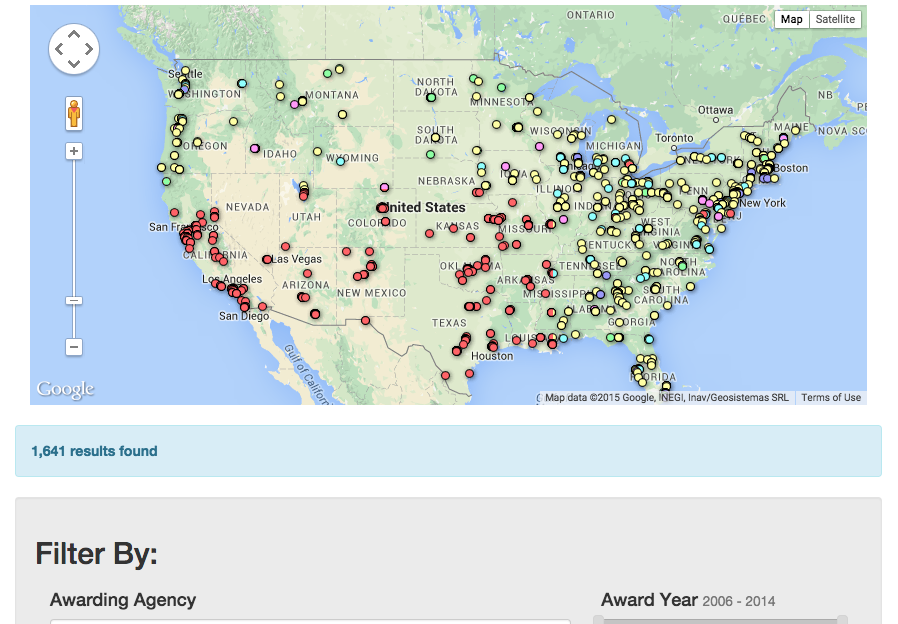
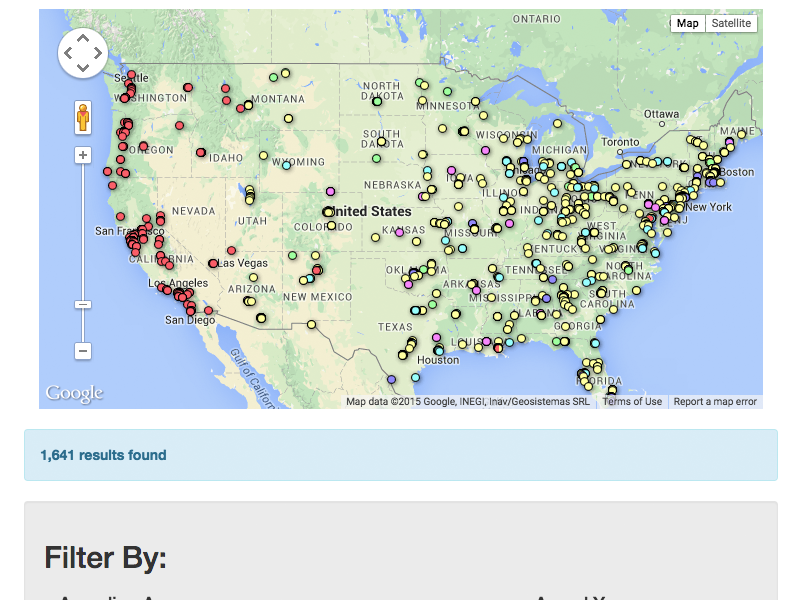
Cleaned up ncji map directory

diff --git a/index.html b/index.html
@@ -12,7 +12,7 @@
   <body>
   <div class="container">
     <div class="row">
-      <div class="col-md-6"><img class="img-responsive title-logo img-circle" src="images/jake-logo.jpg" alt="udacity logo"></div>
+      <div class="col-md-6"><img class="img-responsive title-logo img-circle" src="images/jake-logo.jpg" alt="jake logo"></div>
       <div class="col-md-6 text-right text-uppercase">
         <h1 class="text-thin title-super">Jake Heggelke</h1>
         <h4>FEWD Extraordinaire</h4>
@@ -33,17 +33,17 @@
     </div>
     <div class="row text-center">
       <div class="col-md-4 col-sm-6 col-xs-12">
-        <img class="img-responsive modal-img" src="http://placehold.it/800x600" alt="appify image" data-toggle="modal" data-target="#project1">
-        <h3>Appify</h3>
-        <p><a href="http://github.com">Link to project</a></p>
+        <img class="img-responsive modal-img outline-img" src="images/ncjiMap.png" alt="ncji map image" data-toggle="modal" data-target="#project1">
+        <h3>Filterable Google Map</h3>
+        <p><a href="ncji/index.html">Link to project</a></p>
       </div>
       <div class="col-md-4 col-sm-6 col-xs-12">
-        <img class="img-responsive modal-img" src="http://placehold.it/800x600" alt="sunflower image" data-toggle="modal" data-target="#project2">
+        <img class="img-responsive modal-img outline-img" src="http://placehold.it/800x600" alt="sunflower image" data-toggle="modal" data-target="#project2">
         <h3>Sunflower</h3>
         <p><a href="http://github.com">Link to project</a></p>
       </div>
       <div class="col-md-4 col-sm-6 col-xs-12">
-        <img class="img-responsive modal-img" src="http://placehold.it/800x600" alt="bokeh image" data-toggle="modal" data-target="#project3">
+        <img class="img-responsive modal-img outline-img" src="http://placehold.it/800x600" alt="bokeh image" data-toggle="modal" data-target="#project3">
         <h3>Bokeh</h3>
         <p><a href="http://github.com">Link to project</a></p>
       </div>
@@ -55,11 +55,11 @@
   <div class="modal-dialog">
     <div class="modal-content">
       <div class="modal-header">
-        <h4 class="modal-title" id="myModalLabel">Favorite App Page</h4>
+        <h4 class="modal-title" id="myModalLabel"><a href="ncji/index.html">National Crime Justice Initiatives Map</a></h4>
       </div>
       <div class="modal-body">
-        <img class="img-responsive" src="http://placehold.it/555x333.jpg">
-        This was my first project in this class. I learned a lot about HTML and CSS.
+	  	<img class="img-responsive outline-img" src="images/ncjiMap.png">
+        <p>This is a map that queries a Fusion Table to display dots on a map and populate the Awarding Agency Field. I created as an early project so it is not fully responsive and much of the code does not adhere to best practice rules. I may take some time to update this at some point.</p>
       </div>
       <div class="modal-footer">
         <button type="button" class="btn btn-default" data-dismiss="modal">Close</button>

diff --git a/css/style.css b/css/style.css
@@ -24,3 +24,13 @@ hr {
 	margin: 20px inherit inherit inherit;
 	width: 100px;
 }
+
+.outline-img {
+	padding: 10px;
+	background-color: rgba(0,0,0,0.5);
+	border-radius: 6px; 
+}
+
+.img-backdrop {
+	
+}
